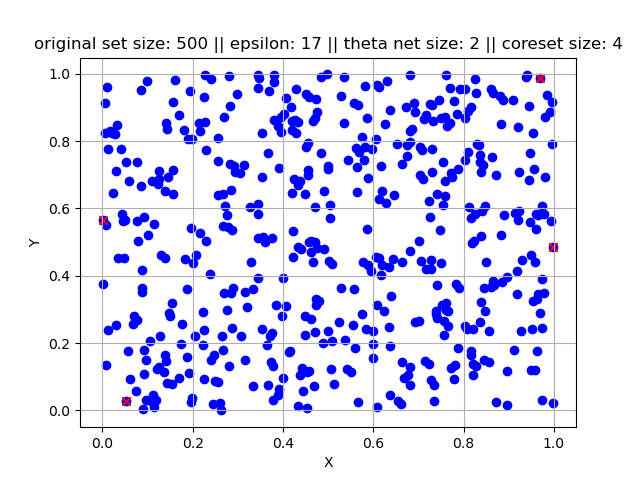
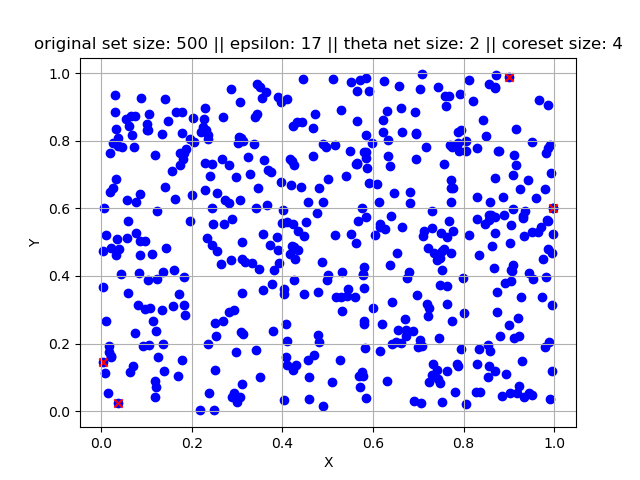
updating plots

diff --git a/online_test.py b/online_test.py
@@ -9,47 +9,71 @@ LEVEL_INDEX = 1
 
 
 parser = argparse.ArgumentParser()
-parser.add_argument('--num_samples', type=int, default=10000, help='Number of samples in the original set')
-parser.add_argument('--epsilon', type=float, default=1e-2, help='Coreset will be (1 + epsilon) approximation over the MEB cost function')
-parser.add_argument('--buffer_size', type=int, default=500, help='The maximum size of the buffer')
+parser.add_argument('--num_samples', type=int, default=500, help='Number of samples in the original set')
+parser.add_argument('--buffer_size', type=int, default=10, help='The maximum size of the buffer')
 args = parser.parse_args()
 
 num_in_P = args.num_samples
-eps = args.epsilon
 buffer_size = args.buffer_size
-
-# each entry is a tuple of size two: (set (i.e. coreset), int ( i.e. level from bottom of the tree))
-coreset_meb_stack = []
+epsilon_list = [1 * i for i in range(1, 20)]
+coreset_size_list = []
+error_list = []
 
 in_P = np.random.rand(num_in_P, 2).astype(float)
 
-gamma = eps / math.log(num_in_P, 2)
+for eps in epsilon_list:
+    # each entry is a tuple of size two: (set (i.e. coreset), int ( i.e. level from bottom of the tree))
+    coreset_meb_stack = []
 
-for start_id in range(0, num_in_P, buffer_size):
-    batch_coreset_meb = get_coreset_meb(in_P[start_id : start_id + buffer_size], gamma)
-    level_from_btm = 0
-    while len(coreset_meb_stack) > 0 and coreset_meb_stack[-1][LEVEL_INDEX] == level_from_btm:
-        batch_coreset_meb = np.concatenate((batch_coreset_meb, coreset_meb_stack[-1][CORESET_INDEX]), axis=0)
-        coreset_meb_stack.pop()
-        batch_coreset_meb = get_coreset_meb(batch_coreset_meb, gamma)
-        level_from_btm = level_from_btm + 1
-    assert(len(coreset_meb_stack) ==  0 or coreset_meb_stack[-1][LEVEL_INDEX] > level_from_btm)
-    coreset_meb_stack.append((batch_coreset_meb, level_from_btm))
+    gamma = eps / math.log(num_in_P, 2)
 
-assert(len(coreset_meb_stack) > 0)
+    for start_id in range(0, num_in_P, buffer_size):
+        batch_coreset_meb = get_coreset_meb(in_P[start_id : start_id + buffer_size], gamma)
+        level_from_btm = 0
+        while len(coreset_meb_stack) > 0 and coreset_meb_stack[-1][LEVEL_INDEX] == level_from_btm:
+            batch_coreset_meb = np.concatenate((batch_coreset_meb, coreset_meb_stack[-1][CORESET_INDEX]), axis=0)
+            coreset_meb_stack.pop()
+            batch_coreset_meb = get_coreset_meb(batch_coreset_meb, gamma)
+            level_from_btm = level_from_btm + 1
+        assert(len(coreset_meb_stack) ==  0 or coreset_meb_stack[-1][LEVEL_INDEX] > level_from_btm)
+        coreset_meb_stack.append((batch_coreset_meb, level_from_btm))
 
-final_coreset_meb = coreset_meb_stack[-1][CORESET_INDEX]
-coreset_meb_stack.pop()
-while len(coreset_meb_stack) > 0:
-    final_coreset_meb = np.concatenate((final_coreset_meb, coreset_meb_stack[-1][CORESET_INDEX]), axis=0)
+    assert(len(coreset_meb_stack) > 0)
+
+    final_coreset_meb = coreset_meb_stack[-1][CORESET_INDEX]
     coreset_meb_stack.pop()
-    final_coreset_meb = get_coreset_meb(final_coreset_meb, gamma)
+    while len(coreset_meb_stack) > 0:
+        final_coreset_meb = np.concatenate((final_coreset_meb, coreset_meb_stack[-1][CORESET_INDEX]), axis=0)
+        coreset_meb_stack.pop()
+        final_coreset_meb = get_coreset_meb(final_coreset_meb, gamma)
 
-plt.scatter(in_P[:, 0], in_P[:, 1], color='blue', marker='o', label='Original Set of Points')
-plt.scatter(final_coreset_meb[:, 0], final_coreset_meb[:, 1], color='red', marker='x', label='Points in Coreset')
+    # approximate error: difference in radii
+    error = (diameter(in_P) / 2 - diameter(final_coreset_meb) / 2) ** 2
+    coreset_size_list.append(final_coreset_meb.shape[0])
+    error_list.append(error)
 
-plt.xlabel('X')
-plt.ylabel('Y')
-plt.title(f'original set size: {num_in_P} || theta net size: {math.ceil(2 * math.pi / math.sqrt(eps))} || coreset size: {len(final_coreset_meb)}')
+    plt.scatter(in_P[:, 0], in_P[:, 1], color='blue', marker='o', label='Original Set of Points')
+    plt.scatter(final_coreset_meb[:, 0], final_coreset_meb[:, 1], color='red', marker='x', label='Points in Coreset')
+
+    plt.xlabel('X')
+    plt.ylabel('Y')
+    plt.title(f'original set size: {num_in_P} || epsilon: {eps} || theta net size: {math.ceil(2 * math.pi / math.sqrt(eps))} || coreset size: {len(final_coreset_meb)}')
+    plt.grid(True)
+    plt.savefig(f'results_online/epsilon_{eps}')
+    plt.show()
+
+plt.scatter(epsilon_list, error_list, color='green', marker='o', label='squared difference radius')
+plt.plot(epsilon_list, error_list, color='green', linestyle='-', linewidth=1)
+plt.xlabel('epsilon')
+plt.ylabel('squared difference radius')
 plt.grid(True)
+plt.savefig('results_online/squared_difference_radius_v_epsilon.png')
+plt.show()
+
+plt.scatter(epsilon_list, coreset_size_list, color='purple', marker='o', label='coreset size')
+plt.plot(epsilon_list, coreset_size_list, color='purple', linestyle='-', linewidth=1)
+plt.xlabel('epsilon')
+plt.ylabel('coreset size')
+plt.grid(True)
+plt.savefig('results_online/coreset_size_v_epsilon.png')
 plt.show()

diff --git a/offline_test.py b/offline_test.py
@@ -14,9 +14,9 @@ epsilon_list = [1 * i for i in range(1, 20)]
 coreset_size_list = []
 error_list = []
 
-for eps in epsilon_list:
-    in_P = np.random.rand(num_in_P, 2).astype(float)
+in_P = np.random.rand(num_in_P, 2).astype(float)
 
+for eps in epsilon_list:
     coreset_meb = get_coreset_meb(in_P, eps)
 
     # approximate error: difference in radii
